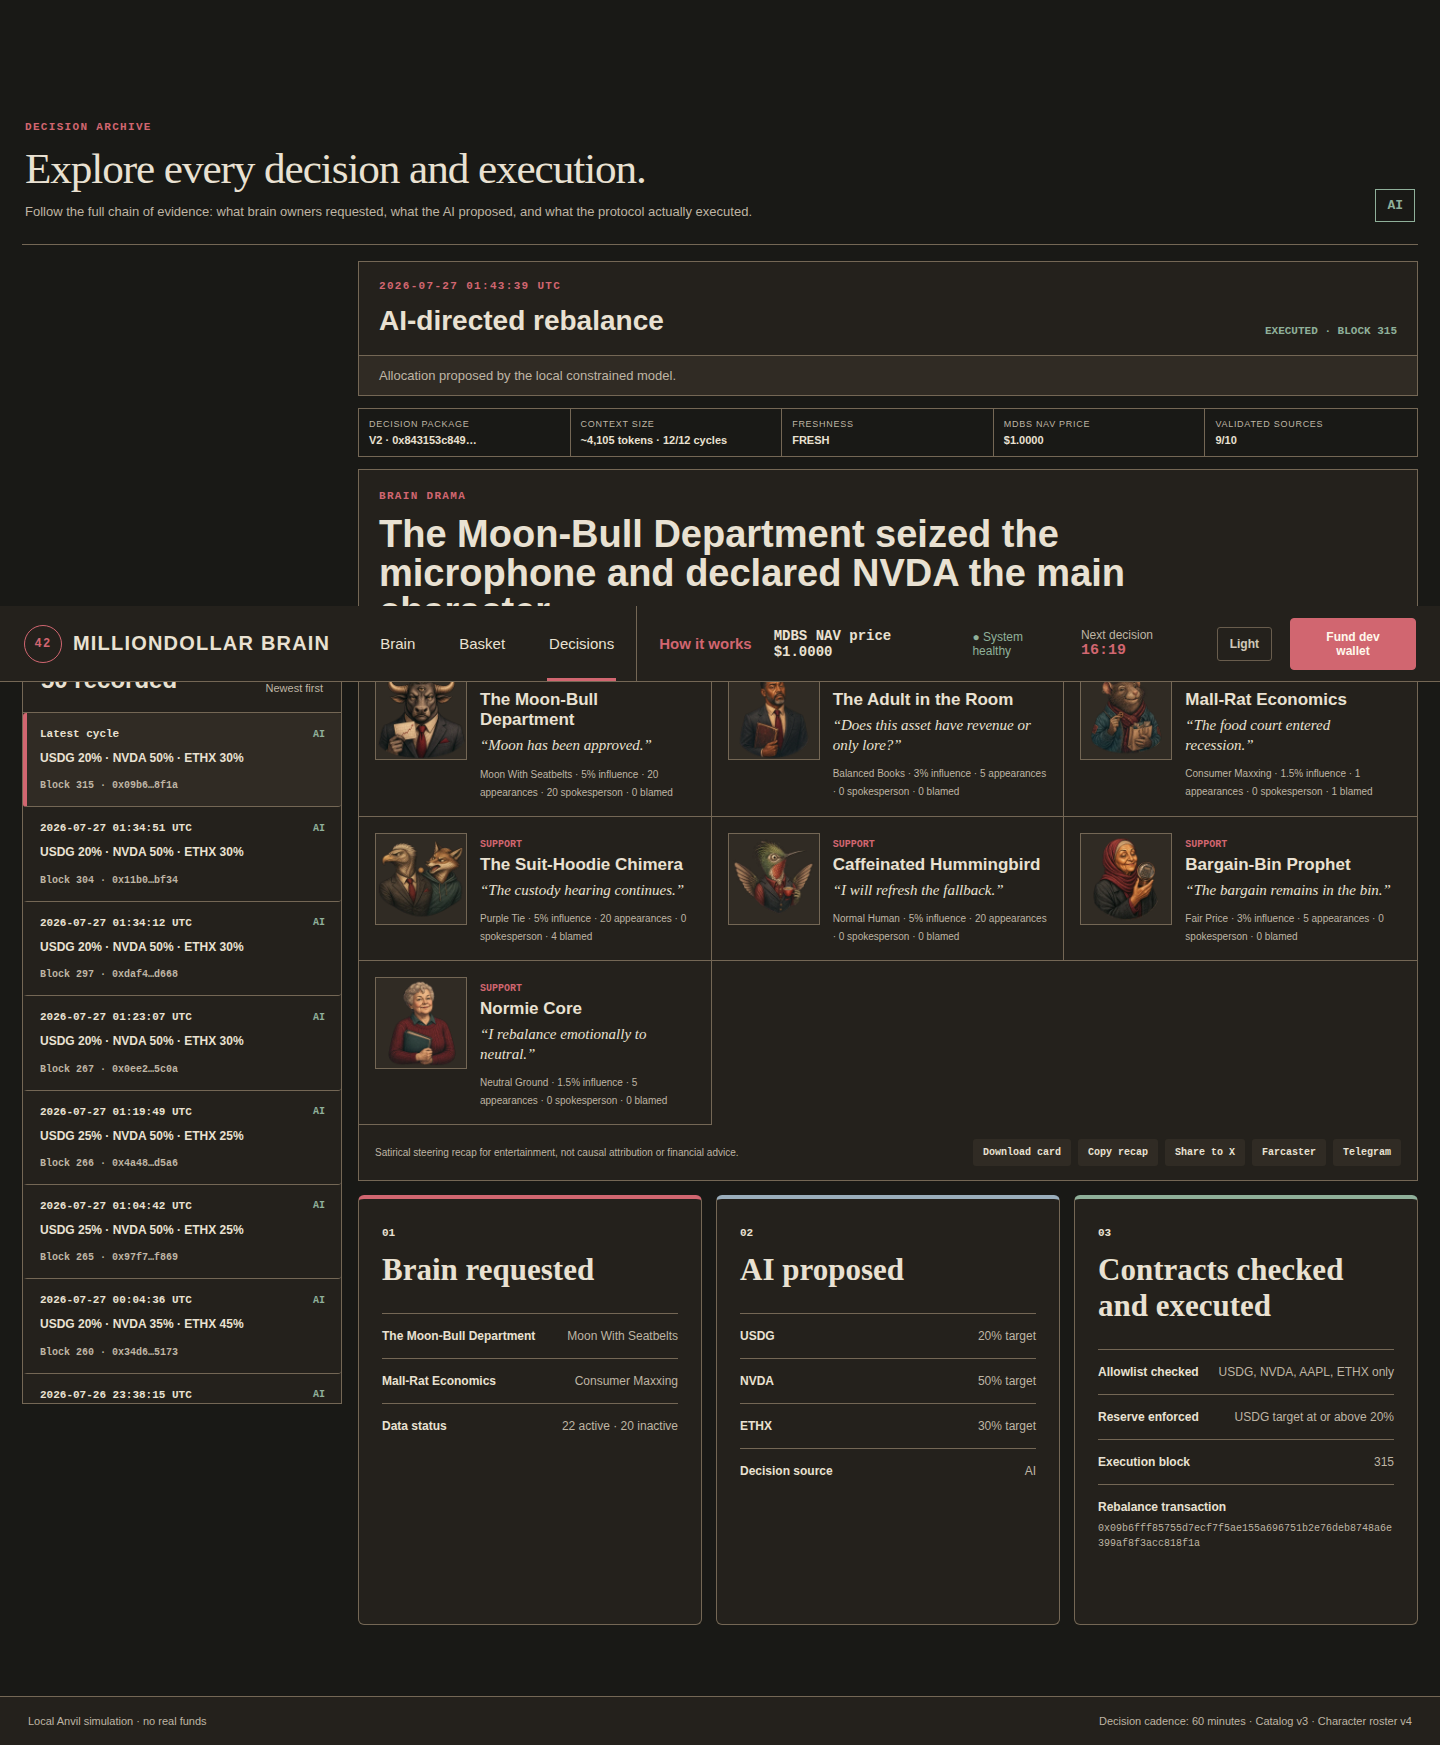
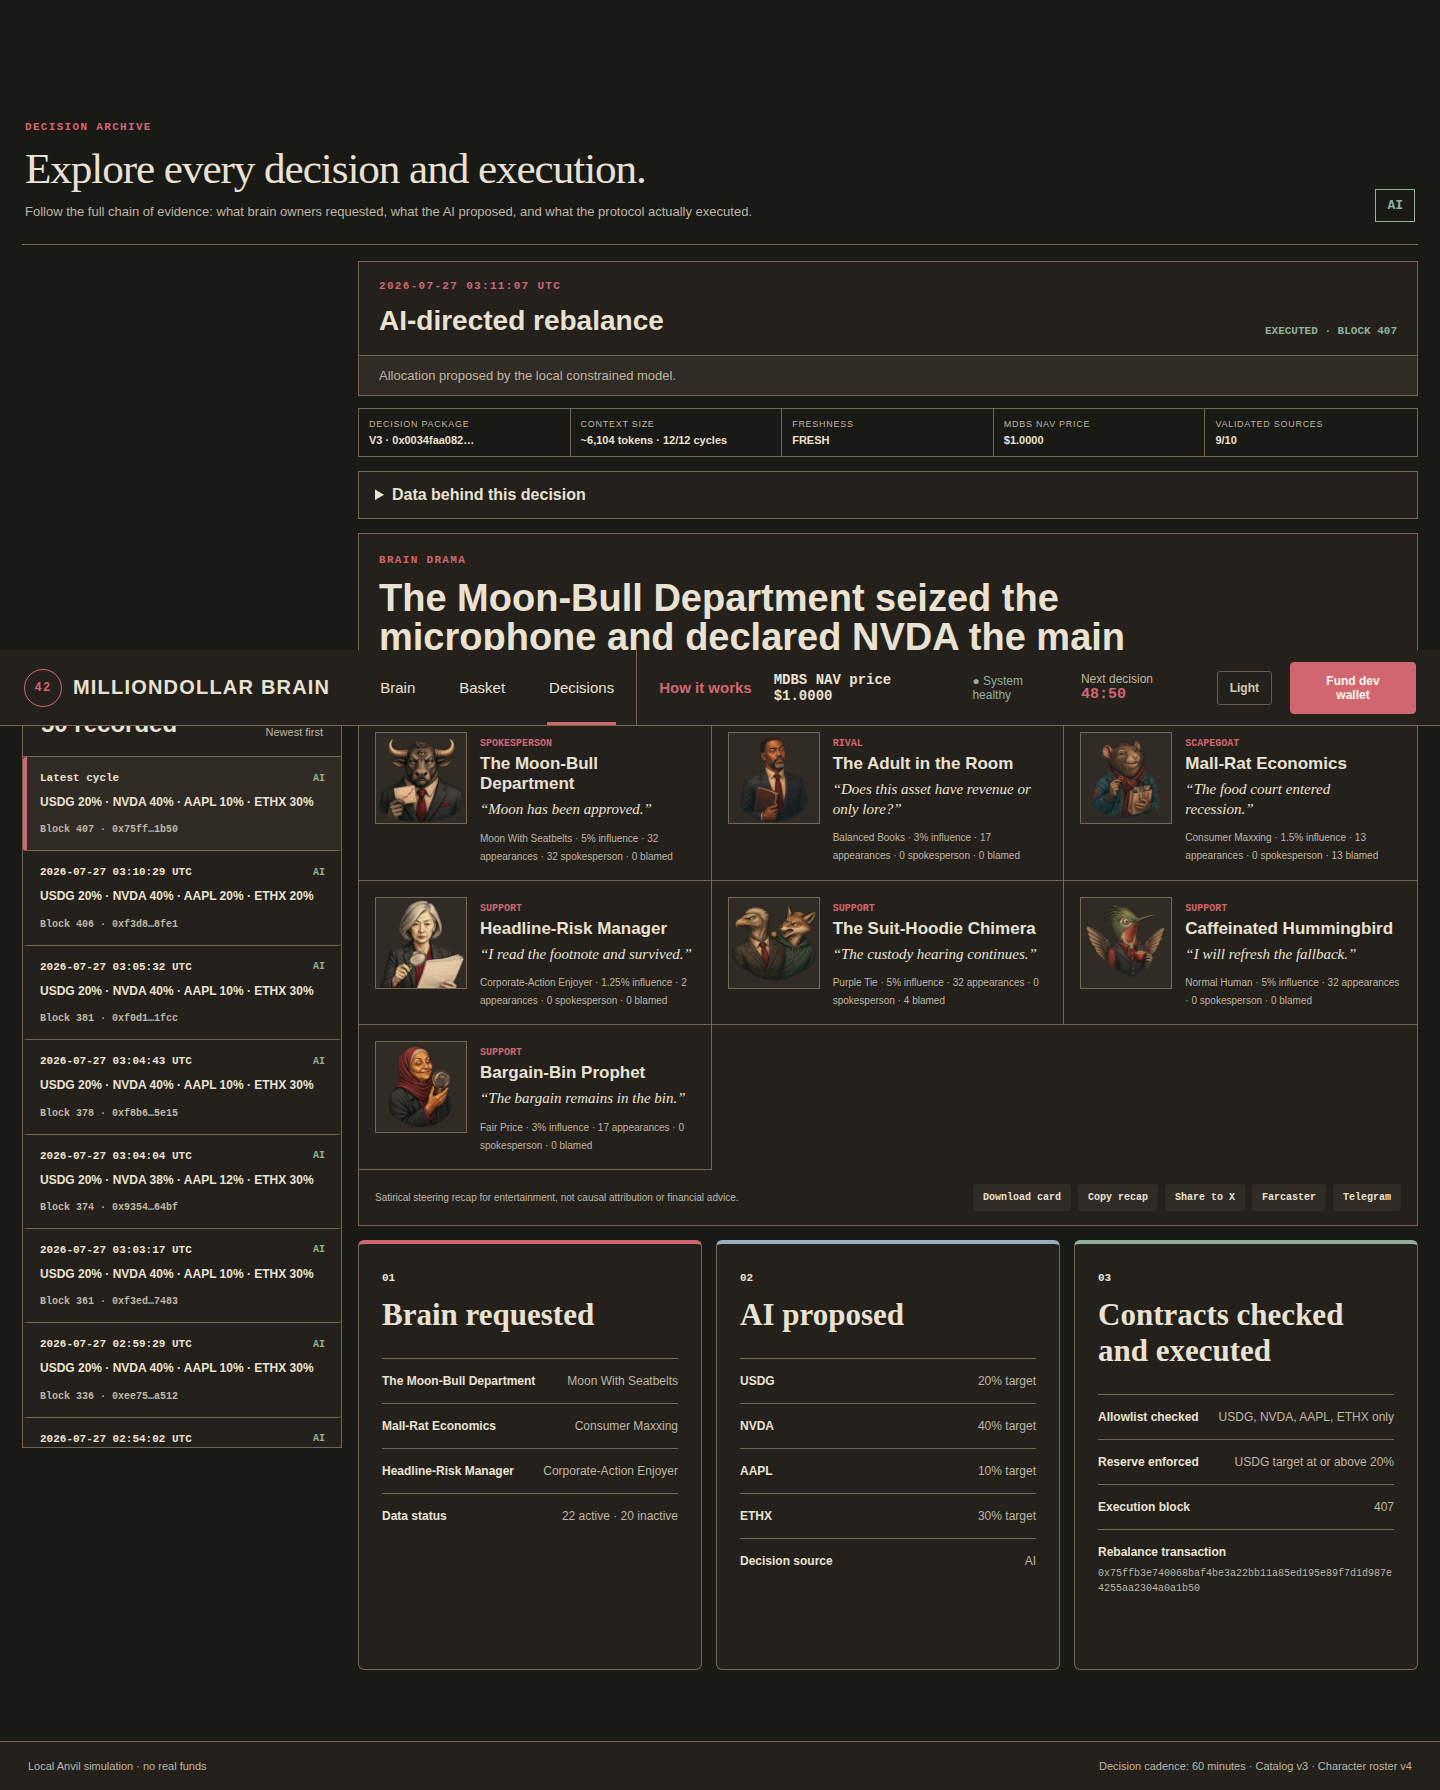
Finalize-DecisionContext-V3-live-UAT

diff --git a/tests/market-data.test.ts b/tests/market-data.test.ts
@@ -58,6 +58,7 @@ test("V3 context remains stateless, bounded, and excludes raw candles", () => {
   assert.match(context, /schemaVersion: 3/);
   assert.match(context, /maximumInputTokens: 32_000/);
   assert.match(context, /detailedCycleLimit: 12/);
+  assert.match(context, /\.sort\(\(a, b\) => a\.time - b\.time\)/);
   assert.doesNotMatch(allocator, /conversation[_A-Z]?id/i);
   assert.doesNotMatch(context, /rawCandles/);
   assert.match(allocator, /const allowed = \["USDG", "NVDA", "AAPL", "ETHX"\]/);

diff --git a/apps/web/lib/decision-context.ts b/apps/web/lib/decision-context.ts
@@ -337,7 +337,8 @@ export async function buildDecisionContext(
   };
   const ethRows = (eth.value ?? [])
     .filter((row) => row.length >= 5)
-    .map((row) => ({ time: row[0], close: row[4] }));
+    .map((row) => ({ time: row[0], close: row[4] }))
+    .sort((a, b) => a.time - b.time);
   const ethPerformance = calculateCandleMetrics(ethRows);
   const equity = { NVDA: nvda, AAPL: aapl } as const;
   const sec = { NVDA: nvdaSec, AAPL: aaplSec } as const;

diff --git a/MEMORY.md b/MEMORY.md
@@ -4,9 +4,9 @@ Durable project context lives here. Update this file whenever information should
 
 ## Active Handoff
 
-- Current task: Implement and validate live-NAV MDBS pool shares plus a bounded, reproducible AI decision context.
-- Last meaningful change: The live BasketVault proxy now runs V2 without resetting balances, supply, or queued-redemption state. The web app exposes contract NAV/share and previews, and each hourly cycle builds a stateless bounded `DecisionContextV2` from validated on-chain state, official structured sources, and at most 12 compact cycles, then stores exact artifacts in PostgreSQL.
-- Next step: Commit and push the final web/data/docs/UAT checkpoint after one last live browser review.
+- Current task: Complete official market history, tracked portfolio accounting, and DecisionContext V3.
+- Last meaningful change: A one-minute native collector now stores multiplier-adjusted Robinhood quotes for NVDA, AAPL, SPY, QQQ, and SOXX, builds local candles/features, indexes vault trades, and matures decision outcomes. The live allocator produced and executed a stateless V3 Ornith cycle while keeping SPY/QQQ/SOXX/ETH-USD reference-only.
+- Next step: Commit and push the final V3 browser-UAT and documentation checkpoint.
 - Blockers: None for local use. FRED macro inputs remain intentionally inactive until a free API key is configured. Real-value activation remains gated on counsel, production integrations and credentials, dependency advisory remediation, multisig/timelock migration, a professional audit, and Robinhood Chain release manifests.
 
 ## Current State
@@ -112,6 +112,8 @@ When sources conflict, use this order:
 - 2026-07-26: Replaced the large inline onboarding block with a fixed-position quick tour that shows one of four steps at a time, leaves the Brain in its normal above-the-fold position, becomes a 12-pixel-inset mobile bottom sheet, and collapses the glossary by default. Prettier, production build, full Chromium economic/autonomous UAT, an explicit no-layout-shift assertion, mobile bottom-sheet assertion, live visual review, and zero page-level horizontal overflow pass.
 - 2026-07-26: Centralized positive-position presentation rules in `apps/web/lib/portfolio-display.ts`. Basket hides assets whose actual on-chain token balance is zero; Decision history summaries, selected target rows, and share-card allocation summaries hide weights at or below zero. Two focused helper tests, Prettier, production build, full Chromium economic/autonomous UAT, and live Basket/Decision review pass. Live history visibly omits AAPL from cycles where its target was zero.
 - 2026-07-27: Upgraded the existing BasketVault UUPS proxy to live-NAV proportional pool shares without resetting MDBS supply, balances, fees, or queued redemptions. Thirteen Foundry tests plus a 256-run fuzz test verify live oracle NAV, non-dilutive proportional deposits, proportional exits, transfer isolation, stale-price failure, slippage, queue behavior, and dust handling. The live V2 allocator recorded a stateless bounded context with 12 cycles and 4,096 estimated tokens, persisted exact artifacts to native PostgreSQL, returned an Ornith allocation of USDG 20%, NVDA 50%, AAPL 0%, and ETHX 30%, and executed it on Anvil. Prettier, production build, focused data tests, full Chromium economic/autonomous UAT, responsive checks, and LAN/public HTTP checks pass.
[2 lines of base64/hex data omitted]
 
 ## Decisions
 
@@ -141,6 +143,15 @@ When sources conflict, use this order:
 - Commands/tests: Thirteen Foundry tests, 256-run fuzz test, focused decision-context tests, Prettier, Next.js production build, Chromium economic/autonomous UAT, live Ornith allocation, PostgreSQL artifact query, and LAN/public HTTP verification.
 - Result: The live local-devnet proxy preserves all V1 state while exposing fixed-point NAV/share and previews. The UI displays live pool value and proportional entry/exit effects, and historical Decisions expose reproducible V2 hashes, sources, freshness, outcomes, and execution evidence.
 - Follow-up: Configure a FRED API key when macro context is wanted; dependent brain inputs remain inactive until then. Do not activate real value until external release gates and dependency advisories are cleared.
+
+### 2026-07-27 - Official Market Memory And DecisionContext V3
+
+- Context: Current Robinhood quotes and SEC facts did not give Ornith stock price history, honest cost basis, cash-flow-adjusted returns, or benchmark-relative outcomes.
+- Decision: Build history only from official observations collected after activation. Sample executable NVDA/AAPL and reference-only SPY/QQQ/SOXX every minute, retain aggregated candles, gate every feature by its own maturity threshold, and never let reference data grant execution permission. Use a weighted-average-cost activation mark for existing positions and keep legacy cycles immutable.
+- Files: `apps/web/lib/market-history.ts`, `apps/web/lib/portfolio-accounting.ts`, `apps/web/lib/decision-context.ts`, `ops/mdb-market-collector.timer`, `packages/contracts/src/BasketVault.sol`.
+- Commands/tests: Market/context unit tests, Foundry upgrade/event/invariant tests, production build, live collector, autonomous Ornith cycle, PostgreSQL queries, Chromium UAT, and public endpoint checks.
+- Result: DecisionContext V3 supplies calculated features, coverage, tracked accounting, benchmarks, and outcomes without raw candles or prompt accumulation. Basket and Decisions expose the same evidence and explain immature metrics.
+- Follow-up: Let official history mature naturally; do not backfill from unofficial providers. Configure FRED separately when desired.
 
 ### 2026-07-12 - Reset Stale Project Context
 

diff --git a/PRD.md b/PRD.md
@@ -453,7 +453,11 @@ The asset catalog is supplied from the on-chain Asset Registry and contains only
 
 For the MVP, Ornith receives USDG plus no more than 24 active risk assets and may return no more than 10 non-zero target positions including USDG. All external information comes from free structured Robinhood, Chainlink, Robinhood Chain, SEC EDGAR, and FRED sources. Versioned protocol code calculates derived metrics. Ornith has no browser, search, arbitrary HTTP, tool-calling, news, social, or AI-curated research access during allocation.
 
-Every model request is stateless, contains one freshly built `DecisionContextV2`, has no conversation ID or prior messages, and is rejected before dispatch if the deterministic 32,000-token estimate is exceeded. Required stale portfolio, valuation, quote, halt, or execution state produces a Hold. Optional unavailable fields are omitted and every dependent brain piece is inactive. PostgreSQL stores the exact context, input and prompt hashes, model configuration, raw output, validated allocation, source manifest, pre/post snapshots, market observations, and execution receipt; archived data is audit/replay material and is never automatically copied into a later prompt.
+Every model request is stateless, contains one freshly built `DecisionContextV3`, has no conversation ID or prior messages, and is rejected before dispatch if the deterministic 32,000-token estimate is exceeded. Required stale portfolio, valuation, quote, halt, or execution state produces a Hold. Optional unavailable fields are omitted and every dependent brain piece is inactive. PostgreSQL stores the exact context, input and prompt hashes, model configuration, raw output, validated allocation, source manifest, pre/post snapshots, market observations, accounting state, decision outcomes, and execution receipt; archived data is audit/replay material and is never automatically copied into a later prompt.
+
+The native market collector samples official Robinhood quotes for executable NVDA/AAPL and reference-only SPY/QQQ/SOXX every minute. It applies the Stock Token multiplier, deduplicates source timestamps, builds retained one-minute, 15-minute, hourly, and daily candles, and calculates versioned returns, volatility, drawdown, momentum, mean reversion, spread, liquidity, execution cost, relative strength, correlation, and beta. Stock features mature only from post-activation official history; no third-party backfill is permitted. ETH-USD remains an official Coinbase reference series, and FRED remains optional until configured.
+
+Portfolio accounting uses a clearly labelled activation mark plus post-activation vault events and receipts. It tracks weighted-average basis, realized/unrealized P&L, time-weighted returns, turnover, fees, gas, deposits, redemptions, and one-hour/24-hour decision outcomes. Reference assets are structurally non-executable and cannot appear in a validated allocation.
 
 ### 10.4 Model output
 

diff --git a/ops/README.md b/ops/README.md
@@ -6,4 +6,6 @@ The checked-in cycle token is only a local-devnet access guard. Testnet and prod
 
 `mdb-cloudflared.service` exposes the local web service through a temporary, randomly assigned `trycloudflare.com` Quick Tunnel. It is for short-lived public demonstrations only: Cloudflare provides no Quick Tunnel SLA, the hostname changes when the tunnel is recreated, and this unit is not a production ingress design. Disable the unit when the demo is over.
 
-`mdb-web.service` uses the native PostgreSQL database `milliondollarbrain` through local peer authentication. Each V2 cycle stores the exact bounded decision context, hashes, model configuration, raw output, portfolio snapshots, market observations, validated allocation, and execution receipt. `FRED_API_KEY` is optional; macro-dependent brain pieces remain inactive until a free key is configured.
+`mdb-web.service` uses the native PostgreSQL database `milliondollarbrain` through local peer authentication. Each V3 cycle stores the exact bounded decision context, hashes, model configuration, raw output, portfolio/accounting snapshots, calculated market features, validated allocation, outcomes, and execution receipt. `FRED_API_KEY` is optional; macro-dependent brain pieces remain inactive until a free key is configured.
+
+`mdb-market-collector.timer` invokes the authenticated collector route every minute. The route deduplicates official NVDA, AAPL, SPY, QQQ, and SOXX observations, aggregates retained candles, calculates independently gated features, indexes post-activation vault events, matures decision outcomes, and records worker health under a PostgreSQL advisory lock. SPY, QQQ, and SOXX are reference-only and never enter the contract or allocator allowlist.

diff --git a/TECH_STACK.md b/TECH_STACK.md
@@ -223,7 +223,7 @@ Production requirements:
 
 Redis, a separate queue system, PM2, and Docker are excluded initially. PostgreSQL owns durable jobs, chain checkpoints, cycle state, idempotency keys, and retry state.
 
-The current local V2 cycle path writes native PostgreSQL tables for exact cycle inputs, source manifests, market observations, pre/post portfolio snapshots, raw model output, validated allocation, and execution receipts. The prompt itself remains stateless and bounded to 12 detailed historical cycles plus fixed rollups.
+The current local V3 path uses versioned native PostgreSQL tables for exact cycle inputs, source manifests, official quote observations, retained candles, calculated features, vault events, weighted-average accounting snapshots, decision outcomes, pre/post portfolio snapshots, raw model output, validated allocation, and execution receipts. `mdb-market-collector.timer` runs every minute with a PostgreSQL advisory lock. The prompt remains stateless, excludes raw candles, and is bounded to 12 detailed historical cycles plus fixed rollups.
 
 ## 11. Smart contracts and local chain
 

diff --git a/AI_DATA_POLICY.md b/AI_DATA_POLICY.md
@@ -50,6 +50,8 @@ The exact launch contracts are selected immediately before deployment from the t
 
 No paid market-data provider, news API, search engine, social feed, or AI research service is required by the MVP.
 
+The runtime builds official stock history locally. A one-minute collector stores multiplier-adjusted Robinhood observations for executable NVDA/AAPL and reference-only SPY/QQQ/SOXX, then derives candles and versioned features in PostgreSQL. No unofficial historical backfill is allowed. Every metric carries coverage and remains unavailable until its specified official-history window matures. Raw candles remain outside the model prompt.
+
 Robinhood Stock Token quotes describe the underlying asset and are not multiplier-adjusted. Supported Chainlink Stock Token feeds are already multiplier-adjusted. The price adapter records this semantic difference and must not apply the ERC-8056 multiplier twice.
 
 ## 4. Deterministically calculated metrics
